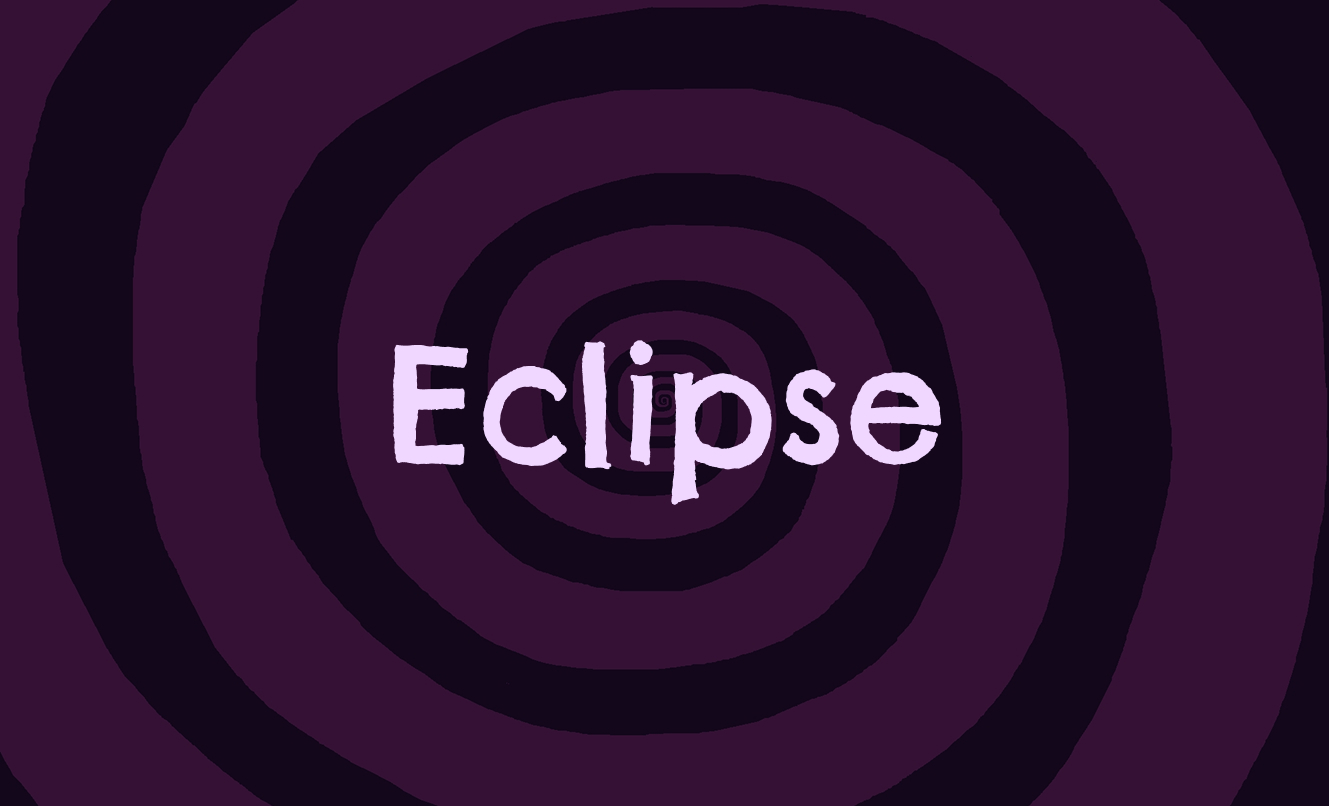
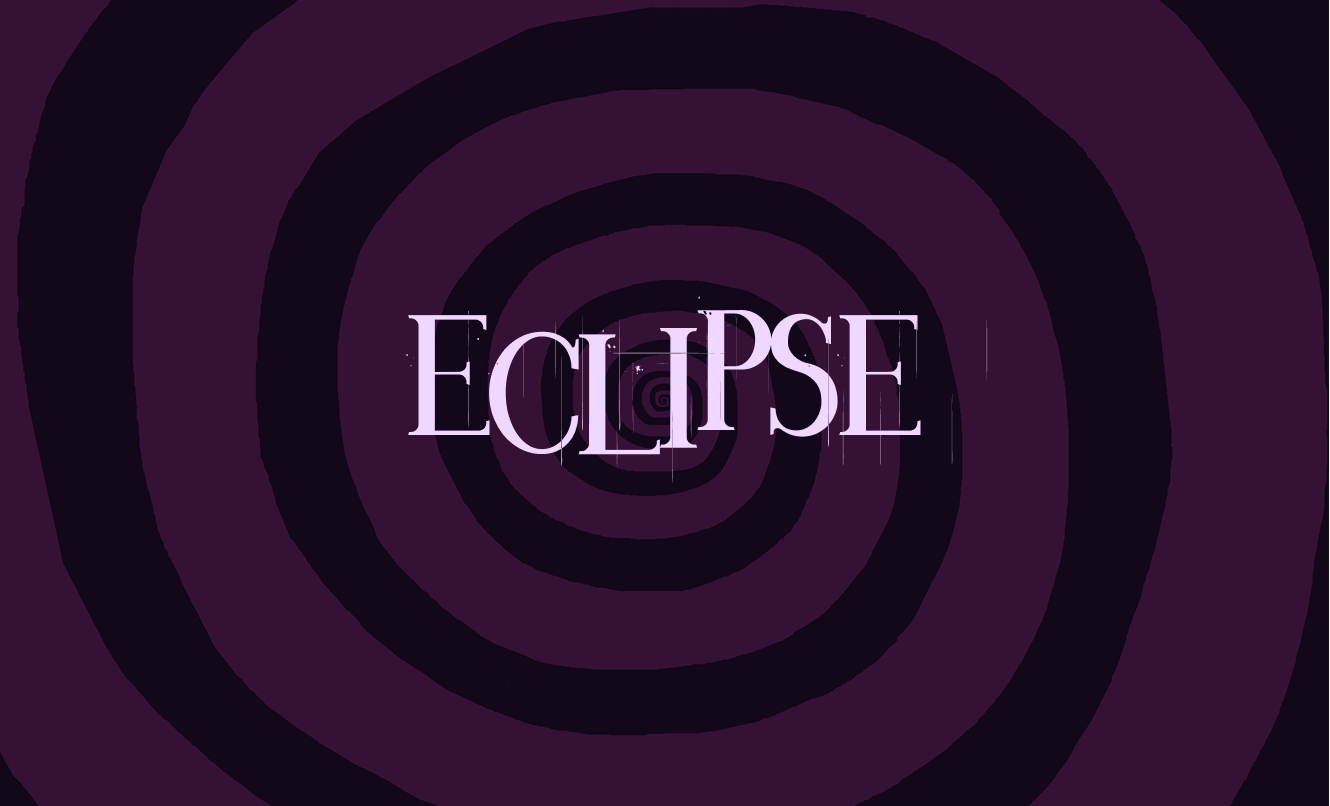
Post #04 of Eclipse
And updated project image

Changed region(s): [[0.2774, 0.3722, 0.709, 0.6203]]

diff --git a/_posts/2026-07-03-eclipse-#04-first-level-out.md b/_posts/2026-07-03-eclipse-#04-first-level-out.md
@@ -1,0 +1,36 @@
+---
+layout: posts
+title: "Eclipse #04 First Level Out!"
+date: 2026-07-03
+image: /img/postimg/p_ec_260703.jpg
+excerpt: I can proudly say that the first level of Eclipse is done and available to play on itch.io!
+tags: [eclipse]
+---
+
+<img src="{{'/img/postimg/p_ec_260703.jpg' | relative_url}}" alt="">
+
+Dear readers,
+
+I can proudly say that the first level of Eclipse is done and available to play on [itch.io!](https://elysianstudio.itch.io/eclipse)
+
+I'm writing this post later than I should have, but during the week of the 16th–21st I was glued to the computer from the moment I got out of bed until bedtime, just to finish this level before the deadline. The girls and I decided to implement only one level, since it was completely unfeasible to make two as we'd originally intended. Each level is supposed to have its own unique look, color palette, and tileset, which would have meant doing A LOT of pixel art from scratch... On top of that, we still needed to add some challenges to the first level, since our game had previously been an authentic walking simulator.
+
+The submission was on the 21st, and the final presentation on the 22nd. It was the last assessment of the semester, and I've finally started my break, so I spent the previous week relaxing a bit. I've never felt as much stress as I did this school year.
+
+Anyway, I've already had the chance to rest, and now I'm going to continue personal projects during the break, and I'll also be learning some new languages. My boyfriend is going to teach me PHP and MySQL, and I'm studying TypeScript on my own. I also intend to put together my portfolio — a page just to showcase all my projects — since this devblog works more as a behind-the-scenes look at what I do.
+
+Anyway, back to Eclipse. I can barely list everything I did in the game, since a lot of it comes down to tweaking things in Unity and fixing code bugs, but one of the main things I did was rebuild the inventory system from scratch. I followed tutorials from the channel [Sunny Valley Studio](https://youtube.com/playlist?list=PLcRSafycjWFegXSGBBf4fqIKWkHDw_G8D&si=j5q_XVmuN2zr8ku2), since he also had an inventory with item descriptions like the one I wanted. The logic applied was MVC (Model-View-Controller), where the UI works separately from the items and the collection system itself, and a controller script passes instructions to the Model and the View about what to do (e.g., the Model holds the item information and the collection system; when the player picks up an item, the Controller tells the View to update the UI and display each item's information). I also learned about namespaces through that tutorial.
+
+I followed the whole tutorial for the parts that interested me (I didn't want drag and drop for our inventory) and then made changes to better fit our game. For example, I made it so the item slots weren't always there, but only appeared once a new item was added to the player's inventory Scriptable Object.
+
+I also ventured into adding an outline to collectible items when the player got close to them. I needed Claude's help for that — I was struggling with the shader that needed to be created for that outline to exist. Honestly, the Unity and C# knowledge we were given in class was simply scarce and insufficient. Most of what I and my classmates learned came from YouTube tutorials and AI assistance. Even so, I was happy that our project ended up among the best in the class.
+
+I added a challenge where the player had to find a key to open a locker, and inside would be one of the photograph pieces. The script consisted of checking whether the key item's Scriptable Object was inside the player's inventory Scriptable Object. If it wasn't there, a dialogue box would pop up with the character thinking "It's locked, I need to find a key," and if it was, a feedback sound would play, a pop-up would appear telling the player to check their inventory, and another dialogue box would appear saying "There was a piece of a photograph here." It's pretty simple. The same logic was used to unlock another door on the map.
+
+The key to that locker was on the other side of a memory puzzle where the floor collapses and the player is sent back to the start every time they fail. You had to memorize the path and use visual clues to walk the correct route. This falling-floor puzzle was made by my teammate Lara.
+
+Besides these challenges, I also made a new bookshelf tileset to build a maze in the library, and a small challenge of putting the ball into the goal to get another piece of the photo. Every tester who tried the prototype tried to kick the ball, without success. They all said they wished they could kick the ball. So, I gave the people what the people wanted: I made the ball kickable and made that relevant to the game's progression.
+
+Unrelated to the game's code or art, I'm very proud to say that both music tracks in the game were produced by me. I really like how they turned out, especially the one for the main menu — the game's theme song. In our reports we said the inspiration was vaporwave, and while that was true at the start, it didn't end up being the final inspiration at all. It has nothing to do with it now. I kept experimenting with sounds until I found something that conveyed suspense, mystery, eeriness, and after watching Kane Parsons' Backrooms film, I became obsessed with that aesthetic. Hello? The guy's a genius! I love that film's soundtrack with all my heart.
+
+Anyway, I think this post will end here. Eclipse's development will continue, but the project is going to take a break for now. We're all exhausted from working. Either way, the first level is available for everyone to play. I don't know if anyone reads these posts — I don't think so at the moment — but if someone really is reading this, I hope you play it, and please feel free to send some feedback!
